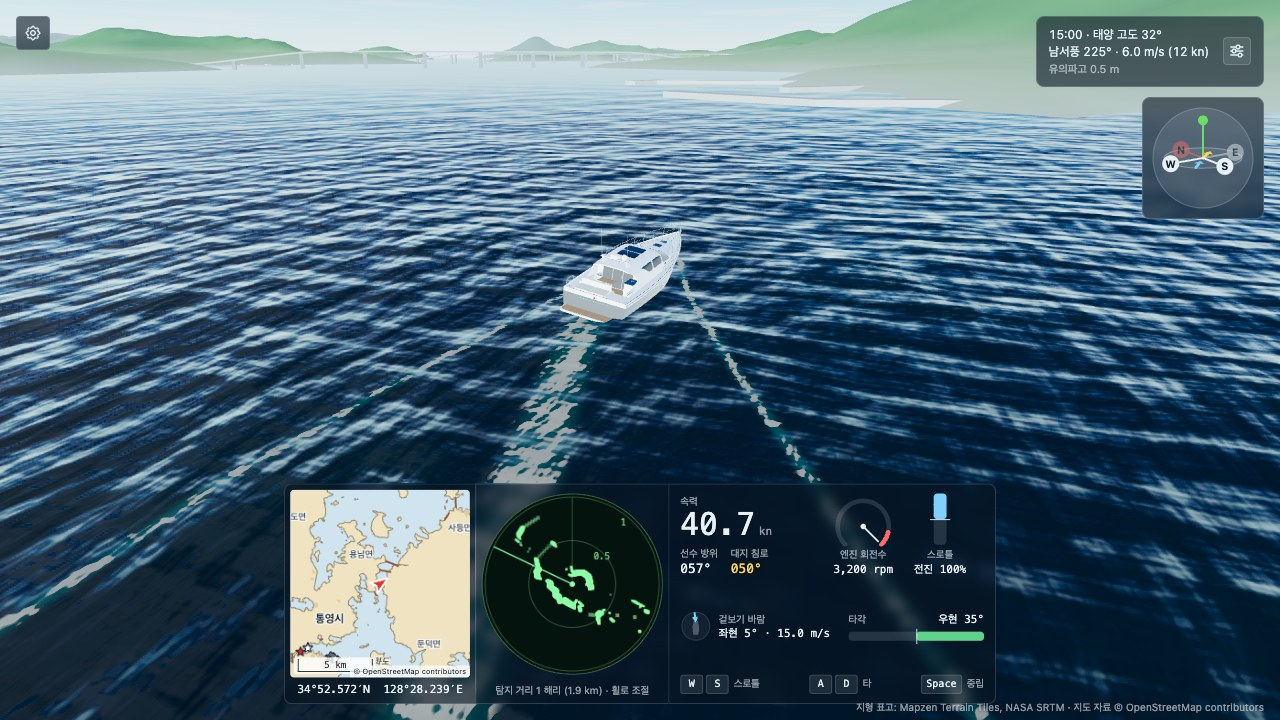
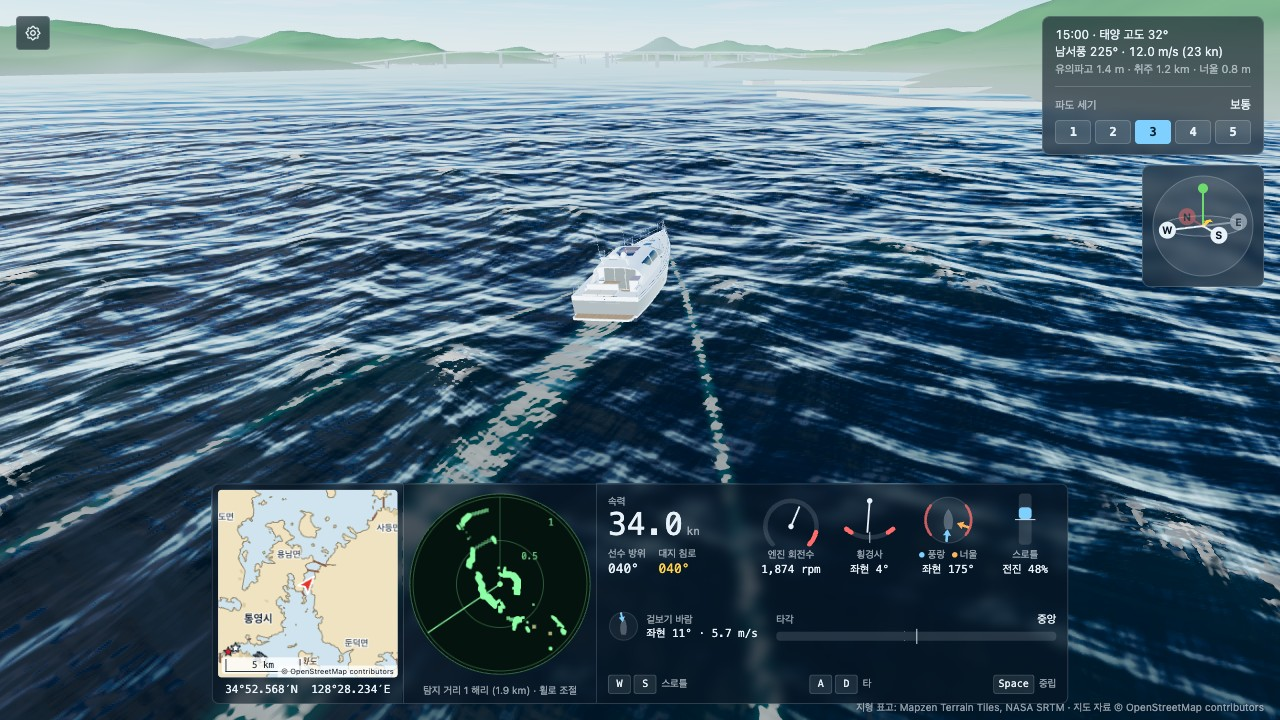
Update the README for rough seas, capsizing and the GPU work
- Describe fetch-limited waves and swell, the five sea levels, roll
  and capsize, breaking crests, the new dials and the resolution
  governor
- Add the R key, rough-sea handling tips and the dev-only weather
  sliders and scene handle
- Bring the folder map, the frame pipeline and the test table up to
  date
- Add a fourth technical decision on measuring before optimising
- Re-shoot the screenshot and the GIF with the current HUD and sea

diff --git a/README.md b/README.md
@@ -1,10 +1,10 @@
 # Namhae Sail
 
-통영과 거제 사이의 한려수도에서 실제 지형과 해도 위로 선박을 조종하는 웹 기반의 3D 항해 시뮬레이터입니다. 지형과 파도, 바람, 태양의 위치를 실제 자료와 물리 수식으로 계산합니다.
+통영과 거제 사이의 한려수도에서 실제 지형과 해도 위로 선박을 조종하는 웹 기반의 3D 항해 시뮬레이터입니다. 지형과 파도, 바람, 태양의 위치를 실제 자료와 물리 수식으로 계산하고, 거친 바다에서는 파도를 받는 방향과 속력에 따라 선체가 기울거나 뒤집힙니다.
 
 **바로 실행하기: https://namhae-sail.vercel.app/** (데스크톱의 키보드가 필요합니다)
 
-![요트가 선회하면서 항적을 남기는 장면](docs/sailing.gif)
+![폭풍 단계의 바다에서 요트가 파도를 넘는 장면](docs/sailing.gif)
 
 ![항해 화면](docs/screenshot.jpg)
 
@@ -17,12 +17,16 @@
 | **방파제와 부두** | OpenStreetMap에 등록된 방파제와 부두 407개를 윤곽대로 3D로 세웁니다. 해도와 같은 자료를 사용하므로 두 화면이 일치합니다. |
 | **다리** | 바다를 건너는 다리 39개(거가대교, 신거제대교, 통영대교 등)의 상판과 교각을 3D로 세웁니다. 다리 밑의 높이가 선박보다 낮으면 지나갈 수 없습니다. |
 | **충돌** | 선체가 화면에 보이는 해안선이나 방파제, 부두, 교각, 등대, 등표에 닿으면 멈추고 경고를 표시합니다. 부표는 밀려나서 흔들립니다. 충돌한 속력에 비례해서 물보라가 튀고 화면이 흔들립니다. |
-| **바람과 파도** | 풍속과 풍향을 조절하면 파도의 높이와 방향이 해양학의 스펙트럼 수식에 따라 변하고, 선체가 바람에 밀립니다. |
-| **부력** | 선체 아래의 수면을 읽어서 상하 움직임과 앞뒤, 좌우의 기울기를 계산합니다. 화면에 보이는 파도와 배가 타는 파도가 일치합니다. |
+| **바람과 파도** | 파도의 높이는 풍속과, 바람이 육지에 막히지 않고 불어온 거리(취주 거리)로 정합니다. 같은 바람이어도 섬의 뒤쪽은 열린 바다보다 잔잔합니다. 먼바다에서 밀려오는 너울을 따로 더하며, 큰 파도가 몇 개씩 무리를 지어 지나갑니다. 풍향은 접속할 때마다 무작위로 정해집니다. |
+| **파도의 세기** | 잔잔함부터 폭풍까지 다섯 단계 가운데에서 고릅니다. 풍속 2~35m/s와 너울 0~3.8m를 조합한 15가지 환경을 세 가지씩 묶은 것이며, 한 단계 안에서도 바다가 잠잠해졌다가 거칠어지기를 반복합니다. |
+| **부력과 횡동요** | 선체 아래의 수면을 읽어서 상하 움직임과 앞뒤 기울기를 계산합니다. 좌우 기울기는 고유 주기를 가진 진동으로 계산하므로, 파도를 옆에서 받으면 크게 흔들리고 선수로 받으면 거의 흔들리지 않습니다. 옆바람과 선회도 선체를 기울입니다. |
+| **전복** | 선체를 일으켜 세우는 힘은 기울기가 커지면 줄어들다가 약 65°에서 사라집니다. 가파른 마루가 선체의 옆면을 때리면 그 너머로 넘어가서 뒤집힐 수 있고, 빠르게 달릴수록 충격이 커집니다. 뒤집힌 배는 엔진이 멈추며, `R` 키로 마지막에 배를 놓았던 곳에서 다시 시작합니다. |
+| **부서지는 마루** | 선체를 넘어뜨릴 만큼 가파른 마루를 수면에 흰 물거품으로 표시합니다. 물리 계산과 같은 기준을 사용하므로, 화면에서 희게 부서지는 곳이 피해야 할 곳입니다. 풍속 13m/s 부근부터는 바람에 날리는 물보라가 수면에 줄을 긋습니다. |
 | **실제 태양** | 날짜와 시각, 위치로부터 태양의 고도와 방위를 계산하고, 고도에 따라 햇빛의 색상과 세기를 변경합니다. |
 | **항적** | 배가 지나간 자리에 선미의 물거품과 선수에서 갈라지는 V자 물결이 남습니다. |
-| **해도와 계기판** | OpenLayers로 그린 해도에 해안선과 지명, 시가지, 방파제와 부두, 다리, 해상 표지, 배의 위치와 항적을 표시하고, 속력과 선수 방위, 대지 침로, 엔진 회전수, 스로틀, 타각, 겉보기 바람을 계기로 표시합니다. |
+| **해도와 계기판** | OpenLayers로 그린 해도에 해안선과 지명, 시가지, 방파제와 부두, 다리, 해상 표지, 배의 위치와 항적을 표시하고, 속력과 선수 방위, 대지 침로, 엔진 회전수, 스로틀, 타각, 겉보기 바람을 계기로 표시합니다. 경사계는 선체의 좌우 기울기를, 파도 방향 계기는 풍랑과 너울이 선수를 기준으로 어느 쪽에서 오는지를 보여 주며, 파도를 옆으로 받는 위험한 자세를 붉은색으로 경고합니다. |
 | **레이더** | 회전하는 안테나의 방향으로 광선을 쏘아서 주변의 해안선과 방파제, 다리, 등대와 부표를 탐지합니다. 섬의 뒤쪽은 전파가 닿지 않아서 표시되지 않고, 주사선이 지나간 자리만 갱신되며 잔상이 서서히 흐려집니다. 레이더 위에서 휠을 돌리면 탐지 거리가 0.25해리에서 4해리까지 바뀝니다. |
+| **해상도 조절** | 프레임이 느린 상태가 이어지면 장면을 그리는 해상도를 한 단계씩 낮추고, 여유가 생기면 다시 올립니다. 창의 크기와 GPU의 성능이 달라도 끊기지 않게 합니다. |
 | **선박의 교체** | 기본 선박은 15m급 요트이며, 180m급 여객선의 사양도 함께 정의되어 있습니다. `main.ts`의 상수 하나를 바꾸면 모델과 조종 특성, 카메라의 거리, 항적의 크기가 함께 전환됩니다. |
 
 ## 실행 방법
@@ -47,13 +51,18 @@ pnpm build      # 배포용 빌드
 | `A` / `D` | 좌현 / 우현 타. 키를 놓으면 중앙으로 복귀합니다. |
 | `Space` | 스로틀 중립 |
 | `C` | 시점 초기화 |
+| `R` | 전복된 뒤에 다시 시작 |
 | 드래그 / 휠 | 시점 회전 / 카메라 거리 |
 
-오른쪽 위의 버튼으로 시각과 풍속, 풍향을 조절할 수 있고, 왼쪽 위의 설정 메뉴에서 조작키의 전체 목록을 확인하거나 시작 위치를 골라서 이동할 수 있습니다.
+오른쪽 위의 패널에서 파도의 세기를 고를 수 있고, 왼쪽 위의 설정 메뉴에서 조작키의 전체 목록을 확인하거나 시작 위치를 골라서 이동할 수 있습니다.
 
-### 관찰 모드
+거친 바다에서는 파도 방향 계기의 화살표가 붉은 구간에 들어가지 않도록 선수를 돌리고, 흰 물거품이 이는 마루 앞에서는 속력을 줄입니다. 기울어지는 쪽의 반대로 타를 쓰면 선체가 일어섭니다.
 
-구역의 여러 곳을 배를 몰고 가지 않고 둘러볼 수 있는 개발용 기능입니다. `pnpm dev`로 실행한 로컬의 개발 서버에서만 동작하며, 배포용 빌드에는 포함되지 않습니다.
+### 개발 도구
+
+`pnpm dev`로 실행한 로컬의 개발 서버에서만 동작하며, 배포용 빌드에는 포함되지 않습니다.
+
+**관찰 모드**는 구역의 여러 곳을 배를 몰고 가지 않고 둘러보는 기능입니다.
 
 | 입력 | 동작 |
 |---|---|
@@ -63,6 +72,10 @@ pnpm build      # 배포용 빌드
 | `T` | 배를 지금 보고 있는 위치로 옮깁니다. 육지나 구조물 위로는 옮기지 않습니다. |
 
 설정 메뉴의 "개발 도구"에서 시, 읍면, 섬의 이름을 골라서 그 장소로 바로 이동할 수 있습니다. 주소에 `?lat=34.76&lon=128.477&observe`와 같이 적으면 그 좌표를 관찰 모드로 바라보면서 시작합니다.
+
+**날씨의 직접 조절**: 오른쪽 위의 패널에 시각, 풍속, 풍향, 너울의 높이와 방향을 하나씩 바꾸는 막대가 추가됩니다. 풍속이나 너울을 직접 바꾸면, 파도의 세기를 다시 고를 때까지 날씨가 저절로 변하지 않습니다.
+
+**장면의 조사**: 브라우저의 콘솔에서 `window.__namhae`로 렌더러와 장면, 선박의 객체를 꺼내 볼 수 있습니다. 성능을 측정하는 스크립트가 이것으로 장면의 요소를 하나씩 끄면서 비용을 잽니다.
 
 ## 기술 스택
 
@@ -79,14 +92,14 @@ pnpm build      # 배포용 빌드
 ```
 src/
   main.ts       모듈을 만들어서 서로 연결하고, 한 프레임의 처리 순서를 정합니다
-  core/         렌더러, 고정 간격의 루프, 키보드 입력, 관찰 모드
+  core/         렌더러, 해상도 조절, 고정 간격의 루프, 키보드 입력, 관찰 모드
   geo/          경위도와 월드 좌표의 변환, 운영 구역, 단위의 변환과 표기
-  environment/  바람의 상태, 태양의 위치와 햇빛의 색상
-  ocean/        파도의 목록과 수면 높이 계산, 수면의 셰이더, 항적
-  ship/         선박의 사양, 운동 모델, 부력, 추적 카메라
-  world/        지형 타일, 육지 마스크, 방파제와 부두, 다리, 등대와 부표, 공간 색인
-  sim/          선박과 장애물의 충돌 판정
-  ui/           지도, 레이더, 계기판, 나침반, 환경 패널, 설정 메뉴, 시작 화면
+  environment/  바람과 너울, 파도의 세기, 태양의 위치와 햇빛의 색상
+  ocean/        파도의 스펙트럼, 파도의 목록과 수면 높이 계산, 수면의 셰이더, 항적
+  ship/         선박의 사양, 운동 모델, 횡동요, 선체가 파도와 바람에서 받는 힘, 추적 카메라
+  world/        지형 타일, 육지 마스크, 취주 거리, 방파제와 부두, 다리, 등대와 부표, 공간 색인
+  sim/          선박과 장애물의 충돌 판정, 전복과 부서지는 파도의 연출
+  ui/           지도, 레이더, 계기판과 원형 계기, 나침반, 환경 패널, 설정 메뉴, 시작 화면
   dev/          개발 서버에서만 사용하는 시작 조건
 scripts/        요트 모델을 생성하는 스크립트, 해안선과 지명, 해상 표지 자료를 내려받는 스크립트
   lib/          스크립트들이 함께 사용하는 Overpass 요청, 도형 계산, 운영 구역
@@ -101,8 +114,10 @@ scripts/        요트 모델을 생성하는 스크립트, 해안선과 지명,
          ├ 운동 모델: 추력, 저항, 타, 풍압
          └ 충돌 판정: 구역의 경계, 육지, 교각, 다리 밑의 높이, 방파제와 부두, 해상 표지
        ─▶ 렌더링 (화면의 주사율)
-         ├ 바람 → 파도의 목록 갱신
-         ├ 파도 → 선체의 부력 계산
+         ├ 프레임 시간 → 그리는 해상도 조절
+         ├ 날씨: 고른 단계 안에서 풍속과 너울을 변화, 취주 거리 측정
+         ├ 바람과 너울 → 파도의 목록 갱신
+         ├ 파도와 바람 → 선체의 상하 움직임과 기울기, 횡동요, 전복 판정
          ├ 지형 타일의 불러오기와 해제
          ├ 항적 지도 그리기
          ├ 태양 → 조명, 하늘, 연무
@@ -127,7 +142,9 @@ scripts/        요트 모델을 생성하는 스크립트, 해안선과 지명,
 
 **결정**: 파도의 목록을 TypeScript에서 한 번만 정의하고, 셰이더에는 uniform으로 전달하며, CPU에서는 같은 목록으로 수면의 높이를 계산합니다. Gerstner 파도는 수면의 점을 수평으로도 이동시키기 때문에, CPU에서는 목표 지점에 도달하는 원래의 위치를 반복 계산으로 먼저 찾습니다.
 
-선체의 움직임은 수선면의 21개 지점에서 수면의 높이를 읽고, 그 높이에 평면을 맞춰서 구합니다. 평면의 평균 높이가 상하 움직임이 되고, 두 방향의 기울기가 종동요와 횡동요가 됩니다.
+선체의 움직임은 수선면의 21개 지점에서 수면의 높이를 읽고, 그 높이에 평면을 맞춰서 구합니다. 평면의 평균 높이가 상하 움직임이, 앞뒤 기울기가 종동요가 됩니다. 좌우 기울기는 선체에 그대로 적용하지 않고 횡동요를 일으키는 힘으로 사용합니다. 횡동요를 고유 주기와 감쇠를 가진 진동으로 따로 계산해야, 파도를 받는 방향에 따라 흔들림이 달라지고 한계를 넘으면 뒤집히기 때문입니다.
+
+같은 원칙을 위험한 파도의 표시에도 적용했습니다. 선체를 넘어뜨리는 마루는 물리 계산에서 마루의 가파름으로 판정하는데, 수면의 셰이더도 같은 상수로 흰 물거품을 그립니다. 기준이 하나이므로, 화면에서 부서지는 마루와 선체를 때리는 마루가 어긋나지 않습니다.
 
 ### 3. 육지 충돌의 판정 기준
 
@@ -135,17 +152,33 @@ scripts/        요트 모델을 생성하는 스크립트, 해안선과 지명,
 
 **결정**: 화면에 그려진 메시의 정점 높이를 보간해서 판정하도록 변경했습니다. 자료의 정확도보다 "보이는 것과 판정이 일치하는 것"이 조종하는 사람에게 더 중요하다고 판단했습니다.
 
+### 4. 느려진 원인을 추측하지 않고 측정하기
+
+**문제**: 파도와 전복의 계산을 추가한 뒤에 화면이 끊기기 시작했습니다. 추가한 것이 대부분 CPU에서 도는 물리 계산이었으므로, 그 계산이 원인일 것으로 예상했습니다.
+
+**측정**: 프로파일러로 확인하니 주 스레드는 프레임당 3.5ms만 쓰고 87%가 쉬고 있었고, 추가한 계산은 시간을 많이 쓰는 함수의 상위 20개에도 없었습니다. GPU는 장면을 그린 직후에 픽셀 하나를 읽어서 한 프레임을 끝내는 데 걸리는 시간을 쟀는데, 1728×1117 크기의 창(화면 배율 2)에서 약 13ms였습니다. 60프레임의 한도인 16.7ms에 가까워서 여유가 거의 없었던 것입니다. 장면의 요소를 하나씩 끄면서 다시 재 보니, 가장 큰 비용은 수면이나 지형이 아니라 다중 표본 안티에일리어싱(MSAA)이었고 그 시간의 3분의 1을 차지했습니다.
+
+**결정**: 화면 배율이 2 이상이면 MSAA를 끕니다. 픽셀이 촘촘한 화면에서는 계단 현상이 거의 보이지 않는데, 표본을 네 배로 저장하고 합치는 비용은 픽셀의 수만큼 커지기 때문입니다. 그리고 창의 크기와 GPU의 성능은 기기마다 다르므로, 프레임 시간을 보고 그리는 해상도를 조절하는 장치를 두었습니다. 느린 상태가 2초 이어지면 한 단계 낮추고, 여유가 8초 이어지면 다시 올리며, 올렸다가 곧 느려지면 다음에는 두 배로 기다려서 해상도가 오르내리기를 되풀이하지 않게 합니다.
+
+**결과**: GPU가 한 프레임을 끝내는 시간이 1728×1117에서 12.6ms에서 9.0ms로, 1440×900에서 9.7ms에서 7.3ms로 줄었습니다. 파도와 전복을 추가하기 전보다도 약 30% 짧습니다.
+
 ## 검증
 
-단위 테스트는 실제 값과 대조할 수 있는 계산을 대상으로 작성했습니다.
+단위 테스트는 실제 값과 대조할 수 있는 계산과, 조건에 따라 결과가 갈리는 판단을 대상으로 작성했습니다.
 
 | 대상 | 검증 내용 |
 |---|---|
 | 좌표 변환 | 원점의 대응, 방위의 부호, 남해 범위에서의 거리 오차(2% 이내), 왕복 변환, 알려진 타일 번호와의 일치 |
 | 태양의 위치 | 부산의 10월 12일 남중 고도(약 47.5°)와 방위, 일출과 일몰 시각의 고도, 하지와 동지의 차이 |
 | 햇빛의 색상 | 고도가 낮을수록 붉고 약해지는지, 수평선 아래에서 사라지는지 |
+| 파도의 스펙트럼 | 풍속과 취주 거리에 따른 유의파고가 JONSWAP의 경험식과 30% 이내로 일치하는지, 취주 거리가 충분하면 더 자라지 않는지 |
+| 취주 거리 | 육지 쪽에서 부는 바람과 열린 바다에서 부는 바람의 구분, 방위의 좌표 규약 |
+| 횡동요 | 고유 주기로 흔들리며 잦아드는지, 주기가 맞는 파도에서 기울기가 커지는지, 복원력이 사라지는 각도의 안쪽에서는 일어서고 바깥쪽에서는 뒤집히는지 |
+| 파도의 세기 | 15가지 환경이 순서대로 거칠어지는지, 한 단계의 범위 안에서만 풍속과 너울이 오르내리는지 |
+| 해상도 조절 | 느린 상태가 이어지면 낮추는지, 한두 프레임이 튀는 것에는 반응하지 않는지, 올렸다가 실패하면 더 오래 기다리는지 |
+| 운영 구역, 단위 표기, 공간 색인, 휠 입력 | 시작 위치가 모두 구역 안에 있는지, 방위와 경위도의 표기, 범위에 걸친 칸의 조회, 트랙패드와 마우스 휠의 구분 |
 
-화면의 동작은 브라우저에서 실행해서 확인했습니다. 가속과 선회의 수치, 풍압에 의한 표류 속력, 육지에서 멈추는 위치를 화면의 계기와 대조했습니다.
+화면의 동작은 브라우저에서 실행해서 확인했습니다. 가속과 선회의 수치, 풍압에 의한 표류 속력, 육지에서 멈추는 위치를 화면의 계기와 대조했습니다. 전복은 방위와 속력을 고정한 채 10분에서 20분씩 계산해서, 파도의 세기와 파도를 받는 방향에 따른 빈도가 의도한 순서로 나오는지 확인했습니다.
 
 ## 한계
 
@@ -153,7 +186,10 @@ scripts/        요트 모델을 생성하는 스크립트, 해안선과 지명,
 - **구조물의 높이는 추정값입니다.** 방파제와 부두, 다리의 높이와 교각의 위치는 자료에 없어서, 종류와 형식에 따라 정한 값을 사용합니다. 실제 다리의 형태와 다릅니다.
 - **수심을 반영하지 않습니다.** 수면보다 낮은 곳은 모두 항해할 수 있는 바다로 취급합니다.
 - **수면에 그림자가 표시되지 않습니다.** 그림자는 선체에만 표시됩니다.
-- **조종 특성은 과장되어 있습니다.** 실제 선박의 수치를 그대로 적용하면 조작이 지나치게 느려서, 가속과 선회를 실제보다 빠르게 조정했습니다.
+- **조종 특성과 파도는 과장되어 있습니다.** 실제 선박의 수치를 그대로 적용하면 조작이 지나치게 느려서, 가속과 선회를 실제보다 빠르게 조정했습니다. 요트의 최고 속력은 약 65노트로, 실제의 두 배입니다. 섬에 가려진 내해의 파도도 실제보다 높게 계산하는데, 실제 값을 따르면 구역의 대부분에서 배가 거의 흔들리지 않기 때문입니다.
+- **파도가 실제로 부서지지는 않습니다.** 수면은 정해진 파도 12개의 합이어서, 마루가 말려서 쏟아지는 형태를 표현하지 못합니다. 부서지는 마루는 가파름으로 판정해서 물거품과 선체에 주는 힘으로만 나타냅니다. 전복은 옆으로 넘어가는 것만 다루며, 큰 파도에 선수가 박혀서 앞으로 넘어가는 것은 다루지 않습니다.
+- **파도의 높이는 화면 전체에 같은 값입니다.** 배가 있는 위치의 조건으로 정하므로, 배가 섬 뒤에 있으면 멀리 보이는 열린 바다도 함께 잔잔해집니다.
+- **풍향과 시각은 고정입니다.** 풍향은 접속할 때 정해진 뒤에는 바뀌지 않고, 시각은 오후 3시입니다. 개발 서버에서는 바꿀 수 있습니다.
 - **해가 진 뒤의 표현이 없습니다.** 달빛과 항해등의 점등은 구현하지 않았습니다.
 - **조류를 반영하지 않습니다.**
 
